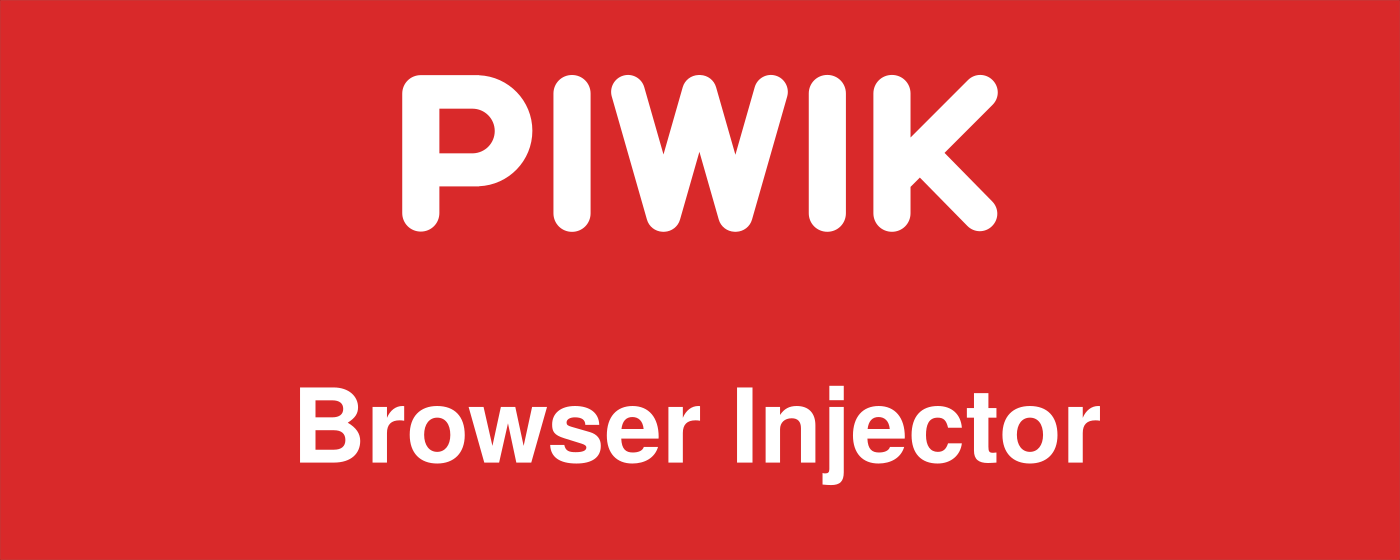
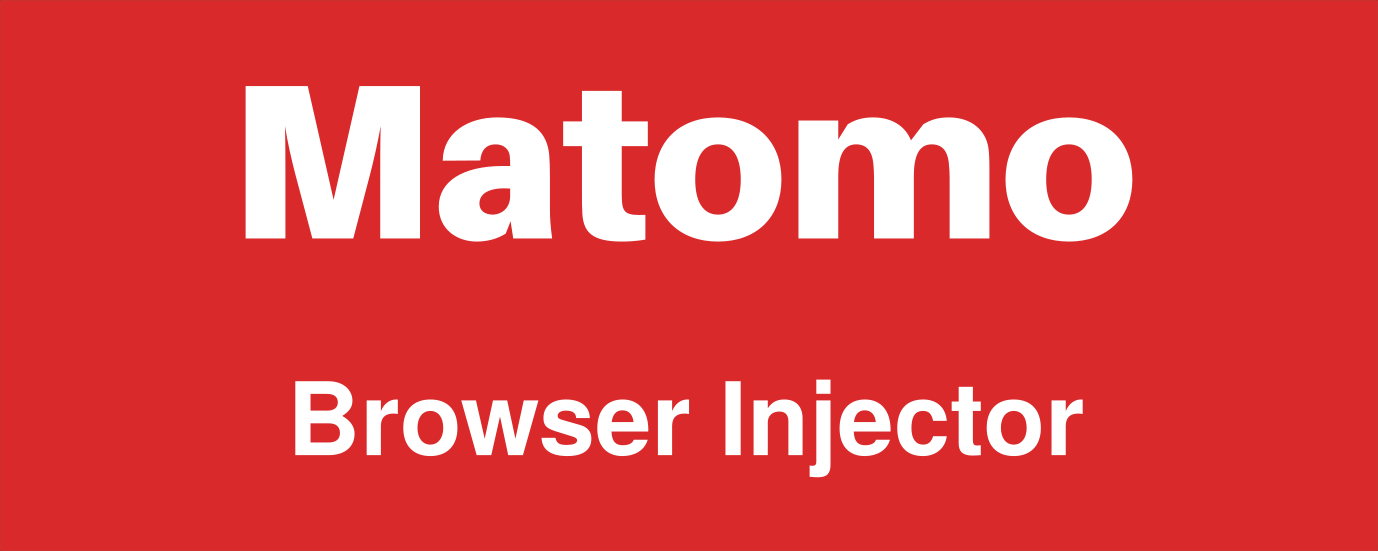
rename Piwik -> Matomo

Changed region(s): [[0.156, 0.1234, 0.8425, 0.4628], [0.4369, 0.7713, 0.4993, 0.833], [0.2184, 0.8022, 0.2496, 0.833]]

diff --git a/js/popup.js b/js/popup.js
@@ -12,8 +12,8 @@ document.addEventListener('DOMContentLoaded', function() {
       resetBtn: document.getElementById("reset"),
       draftRemoveLink: document.getElementById("draft-remove"),
       error: document.getElementById("error"),
-      piwikForm: document.getElementById("piwik-form"),
-      piwikURL: document.getElementById("piwik-url"),
+      matomoForm: document.getElementById("matomo-form"),
+      matomoURL: document.getElementById("matomo-url"),
       siteID: document.getElementById("site-id"),
       expertMode: document.getElementById("expert-mode")
     },
@@ -23,12 +23,12 @@ document.addEventListener('DOMContentLoaded', function() {
         var translateKey = id.replace(/-/g, "_");
         document.getElementById(id).innerText = chrome.i18n.getMessage(translateKey);
       });
-      var translatableTitles = ["host", "goto-host", "save", "reset", "draft-remove", "piwik-url", "site-id"];
+      var translatableTitles = ["host", "goto-host", "save", "reset", "draft-remove", "matomo-url", "site-id"];
       translatableTitles.forEach(function(id) {
         var translateKey = id.replace("-", "_") + "_title";
         document.getElementById(id).setAttribute('title', chrome.i18n.getMessage(translateKey));
       });
-      popup.el.piwikURL.setAttribute("placeholder", chrome.i18n.getMessage("piwik_url_placeholder"));
+      popup.el.matomoURL.setAttribute("placeholder", chrome.i18n.getMessage("matomo_url_placeholder"));
       popup.el.siteID.setAttribute("placeholder", chrome.i18n.getMessage("site_id_placeholder"));
       document.title = chrome.i18n.getMessage("extension_name");
     },
@@ -114,11 +114,11 @@ document.addEventListener('DOMContentLoaded', function() {
         // Merge host's data to defaults
         popup.data = Object.assign(popup.data, response);
 
-        popup.piwik.loadExpertMode();
+        popup.matomo.loadExpertMode();
         console.warn("HALLO");
-        if (popup.data.piwik) {
-          popup.el.piwikURL.value = popup.data.piwik.piwikURL;
-          popup.el.siteID.value = popup.data.piwik.siteID;
+        if (popup.data.matomo) {
+          popup.el.matomoURL.value = popup.data.matomo.matomoURL;
+          popup.el.siteID.value = popup.data.matomo.siteID;
         }
 
         popup.data.originalSource = popup.data.source;
@@ -135,32 +135,32 @@ document.addEventListener('DOMContentLoaded', function() {
       }
     },
 
-    piwik: {
+    matomo: {
       defaultTrackingCode: "var _paq = _paq || [];\n" +
       "/* tracker methods like \"setCustomDimension\" should be called before \"trackPageView\" */\n" +
       "_paq.push(['trackPageView']);\n" +
       "_paq.push(['enableLinkTracking']);\n" +
       "(function() {\n" +
-      "  var u=\"{{PIWIKURL}}\";\n" +
-      "  _paq.push(['setTrackerUrl', u+'piwik.php']);\n" +
+      "  var u=\"{{MATOMOURL}}\";\n" +
+      "  _paq.push(['setTrackerUrl', u+'matomo.php']);\n" +
       "  _paq.push(['setSiteId', '{{SITEID}}']);\n" +
       "  var d=document, g=d.createElement('script'), s=d.getElementsByTagName('script')[0];\n" +
-      "  g.type='text/javascript'; g.async=true; g.defer=true; g.src=u+'piwik.js'; s.parentNode.insertBefore(g,s);\n" +
+      "  g.type='text/javascript'; g.async=true; g.defer=true; g.src=u+'matomo.js'; s.parentNode.insertBefore(g,s);\n" +
       "})();",
       handleTrackingCode: function() {
-        var piwikURL = encodeURI(popup.el.piwikURL.value);
-        if (!piwikURL.endsWith("/")) {
-          piwikURL += "/";
+        var matomoURL = encodeURI(popup.el.matomoURL.value);
+        if (!matomoURL.endsWith("/")) {
+          matomoURL += "/";
         }
         var siteID = parseInt(popup.el.siteID.value, 10);
-        if (!siteID || !piwikURL) {
+        if (!siteID || !matomoURL) {
           return false;
         }
-        var js = popup.piwik.defaultTrackingCode;
-        js = js.replace("{{PIWIKURL}}", piwikURL);
+        var js = popup.matomo.defaultTrackingCode;
+        js = js.replace("{{MATOMOURL}}", matomoURL);
         js = js.replace("{{SITEID}}", String(siteID));
         popup.editor.apply(js);
-        popup.data.piwik = {piwikURL: piwikURL, siteID: siteID};
+        popup.data.matomo = {matomoURL: matomoURL, siteID: siteID};
       },
       setExpertMode: function(expertMode, onLoad) {
         popup.editor.editorInstance.setOptions({
@@ -169,7 +169,7 @@ document.addEventListener('DOMContentLoaded', function() {
           highlightGutterLine: expertMode
         });
         popup.editor.editorInstance.container.style.backgroundColor = expertMode ? "white" : "#eaeded";
-        popup.el.piwikForm.querySelectorAll("input").forEach(function(input) {
+        popup.el.matomoForm.querySelectorAll("input").forEach(function(input) {
           input.disabled = expertMode;
         });
         popup.el.expertMode.checked = expertMode;
@@ -182,7 +182,7 @@ document.addEventListener('DOMContentLoaded', function() {
       },
       loadExpertMode: function() {
         var expertMode = (typeof popup.data.expertMode === "undefined") ? false : popup.data.expertMode;
-        popup.piwik.setExpertMode(expertMode);
+        popup.matomo.setExpertMode(expertMode);
       }
     },
     applyData: function(data, notDraft) {
@@ -316,8 +316,8 @@ document.addEventListener('DOMContentLoaded', function() {
   }, popup.apiclb.onSelectedTab);
 
 
-  popup.el.piwikForm.querySelectorAll("input").forEach(function(input) {
-    input.addEventListener("change", popup.piwik.handleTrackingCode);
+  popup.el.matomoForm.querySelectorAll("input").forEach(function(input) {
+    input.addEventListener("change", popup.matomo.handleTrackingCode);
   });
 
   /**
@@ -438,7 +438,7 @@ document.addEventListener('DOMContentLoaded', function() {
 
   popup.el.expertMode.addEventListener("change", function(event) {
     var enabled = event.target.checked;
-    popup.piwik.setExpertMode(enabled);
+    popup.matomo.setExpertMode(enabled);
   });
 
 }, false);

diff --git a/popup.html b/popup.html
@@ -28,8 +28,8 @@
                     </div>
                 </div><!-- .top -->
             </div>
-            <div class="pure-form" id="piwik-form">
-                <input id="piwik-url" title="">
+            <div class="pure-form" id="matomo-form">
+                <input id="matomo-url" title="">
                 <input type="number" id="site-id" min="0" title="">
             </div>
             <div class="pure-form">

diff --git a/README.md b/README.md
@@ -1,4 +1,4 @@
-Piwik Browser Injector
+Matomo Browser Injector
 ========
 
 [![Chrome Web Store](https://img.shields.io/chrome-web-store/v/bglodhjbeeolbfpodfacccmnjledmggn.svg)](https://chrome.google.com/webstore/detail/piwik-injector/bglodhjbeeolbfpodfacccmnjledmggn)
@@ -8,17 +8,17 @@ Piwik Browser Injector
 [![Mozilla Add-on](https://img.shields.io/amo/v/piwik-injector.svg)](https://addons.mozilla.org/de/firefox/addon/piwik-injector/)
 [![Mozilla Add-on](https://img.shields.io/badge/mozilla%20addon-download%20now-brightgreen.svg)](https://addons.mozilla.org/de/firefox/addon/piwik-injector/)
 
-Piwik Browser Injector helps you to try out [Piwik](https://piwik.org/), the leading open source web analytics software, in cases where it isn't possible to modify the source of a website or when you just want to quickly see how the visitor data of your website would look like in Piwik.
+Matomo Browser Injector helps you to try out [Matomo](https://matomo.org/), the leading open source web analytics software, in cases where it isn't possible to modify the source of a website or when you just want to quickly see how the visitor data of your website would look like in Piwik.
 
 ### Usage:
 * open the domain, where you want to include the tracking code localy
-* click on the Piwik Browser Injector icon in your toolbar and enter the URL to your piwik instance and the ID of your website
+* click on the Matomo Browser Injector icon in your toolbar and enter the URL to your piwik instance and the ID of your website
 * if you want to try out advanced features you can enable the expert mode where you can freely modify the tracking code
 
 This extention is in an early development state and may include backward-incompatible changes in future versions.
 
 If you notice any bugs or have wishes for features open an issue on the github repository:
-https://github.com/Findus23/piwik-injector
+https://github.com/Findus23/matomo-injector
 
 
 Licended under [the MIT License](https://github.com/Findus23/piwik-injector/blob/master/LICENSE) and based on the work of [hromadadan](https://github.com/guzart/customjs) and [xcv58](https://github.com/xcv58/Custom-JavaScript-for-Websites-2)
